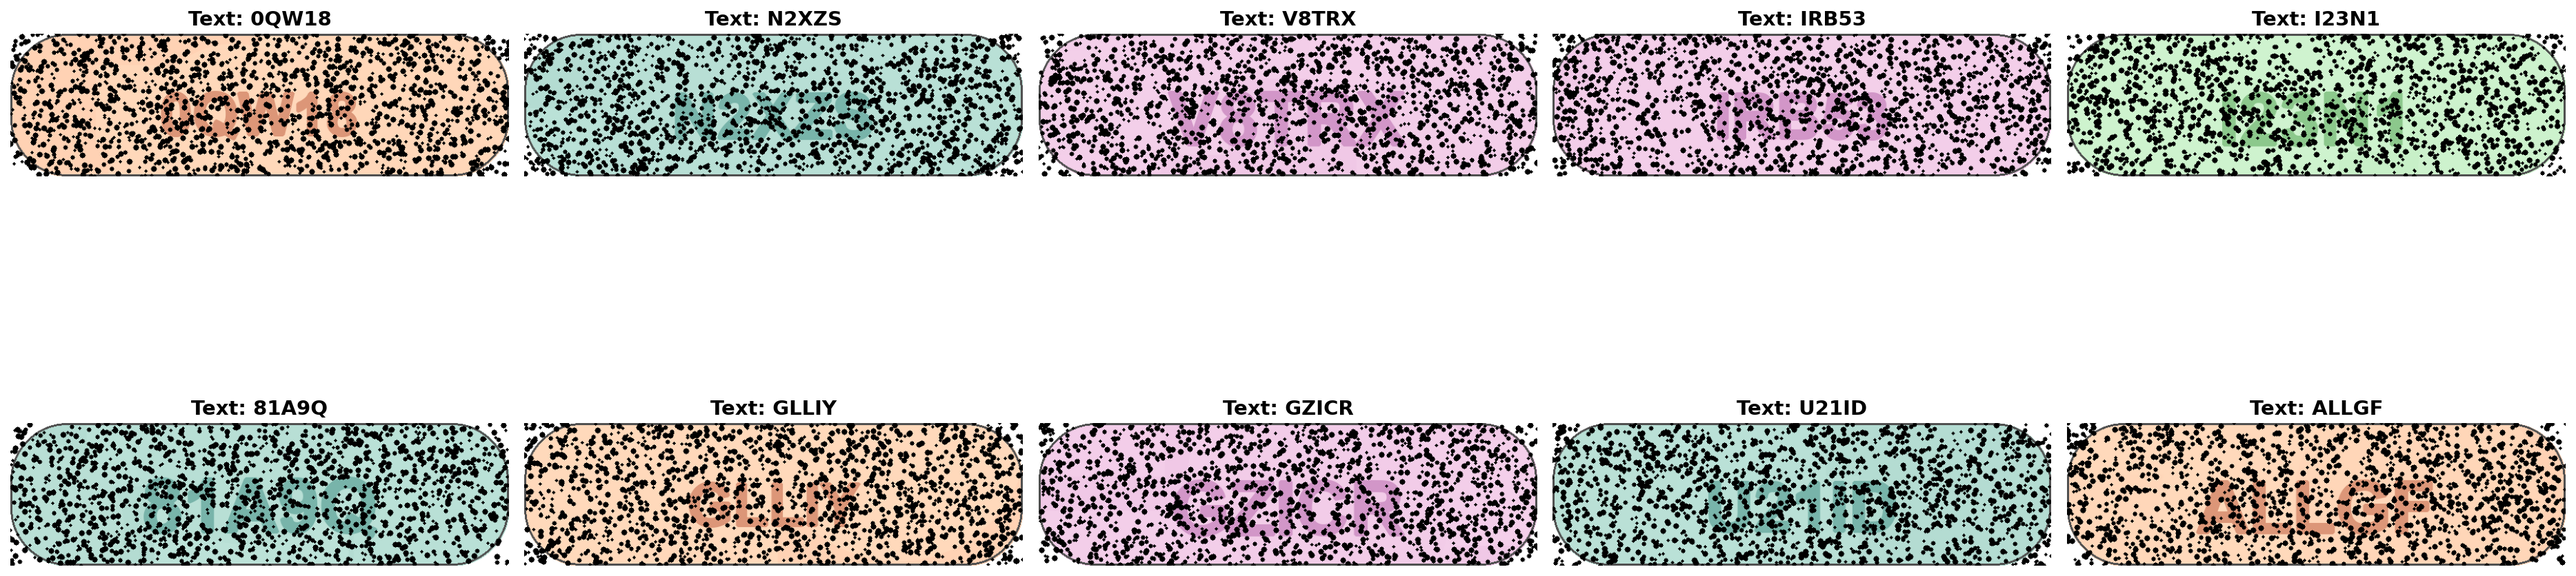
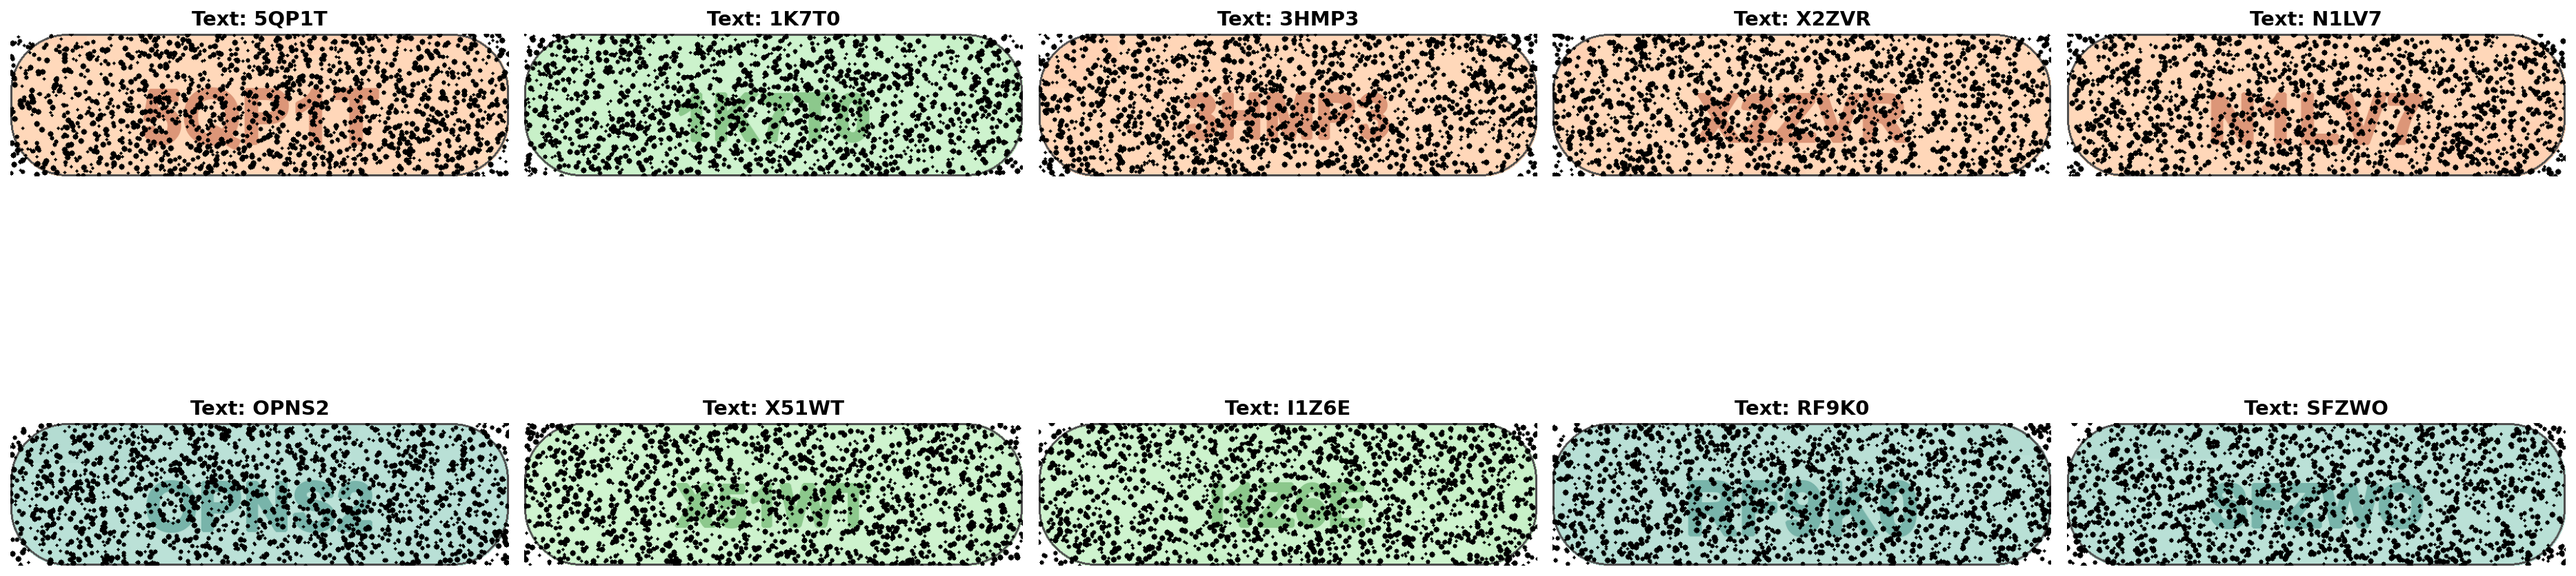
adjustmens on captcha_generator

diff --git a/captcha_generator.py b/captcha_generator.py
@@ -10,7 +10,7 @@ import os
 class GeneratorConfig:
 
     OUTPUT_DIR = "train" # or test or any other name
-    NUM_IMAGES = 20
+    NUM_IMAGES = 5000
     
     IMG_WIDTH = 700   
     IMG_HEIGHT = 200  
@@ -276,7 +276,7 @@ def generate_sample_preview(num_samples=10):
 
 if __name__ == "__main__":
     
-    generate_sample_preview(num_samples=10)
+    #generate_sample_preview(num_samples=10)
     
     generate_dataset(
         num_images=config.NUM_IMAGES,
